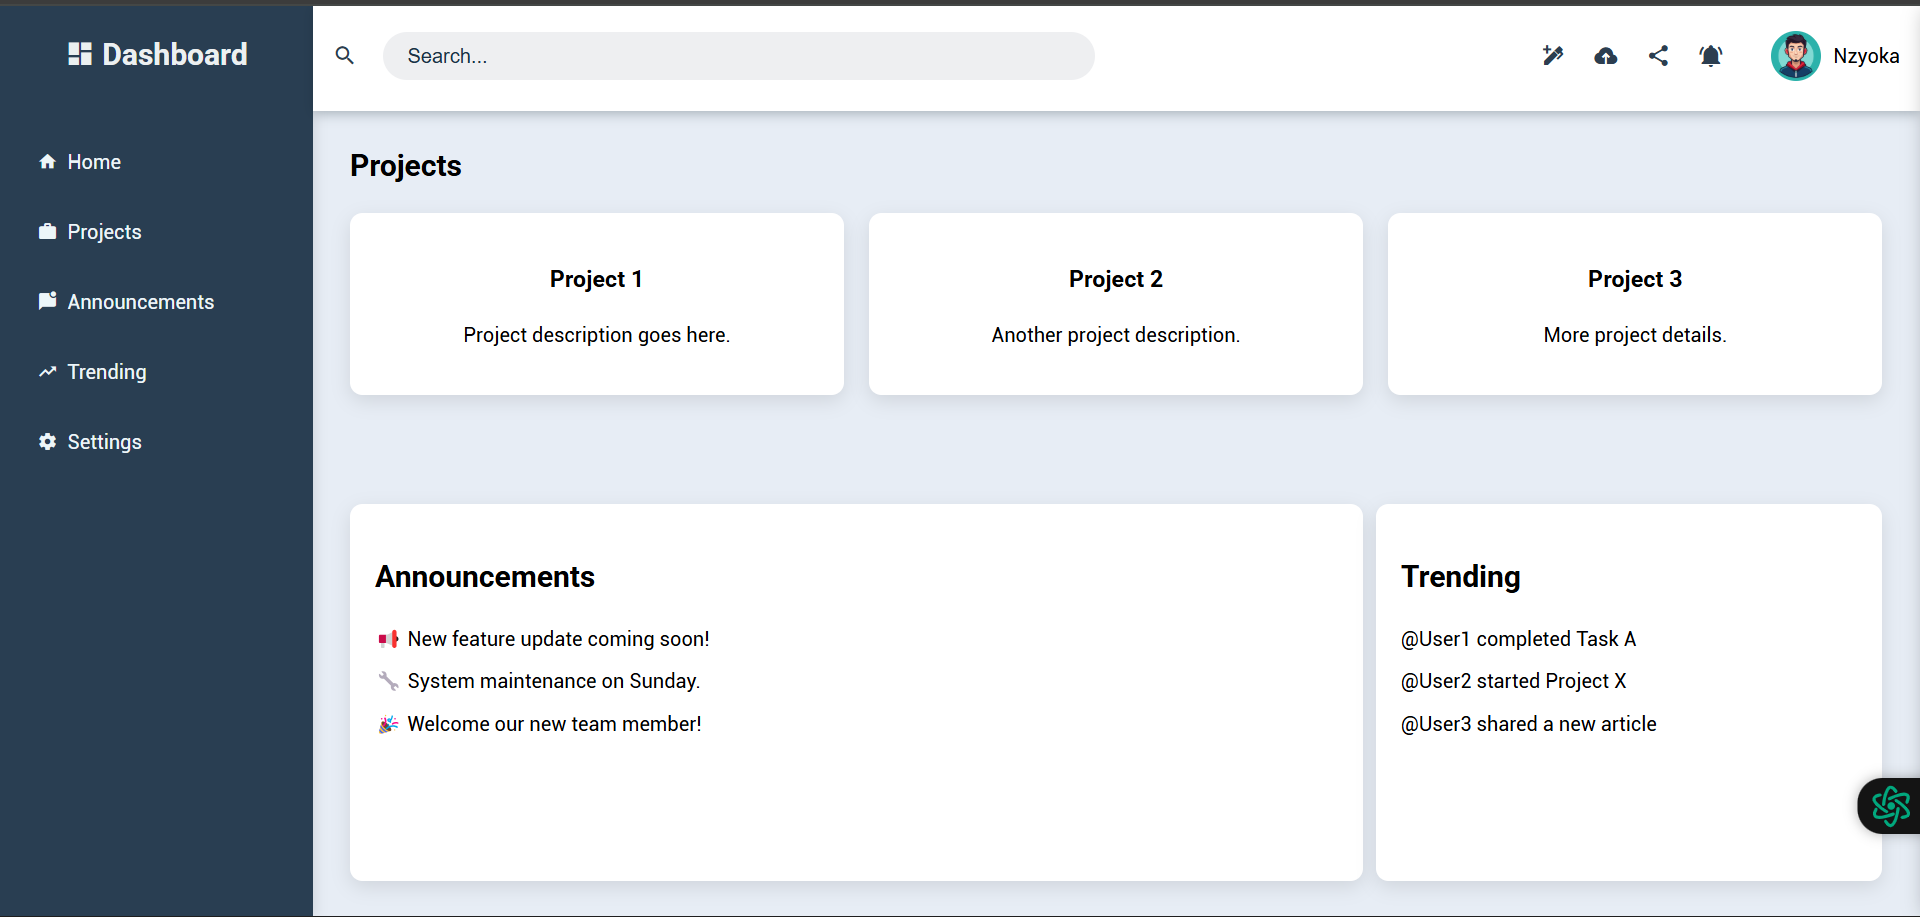
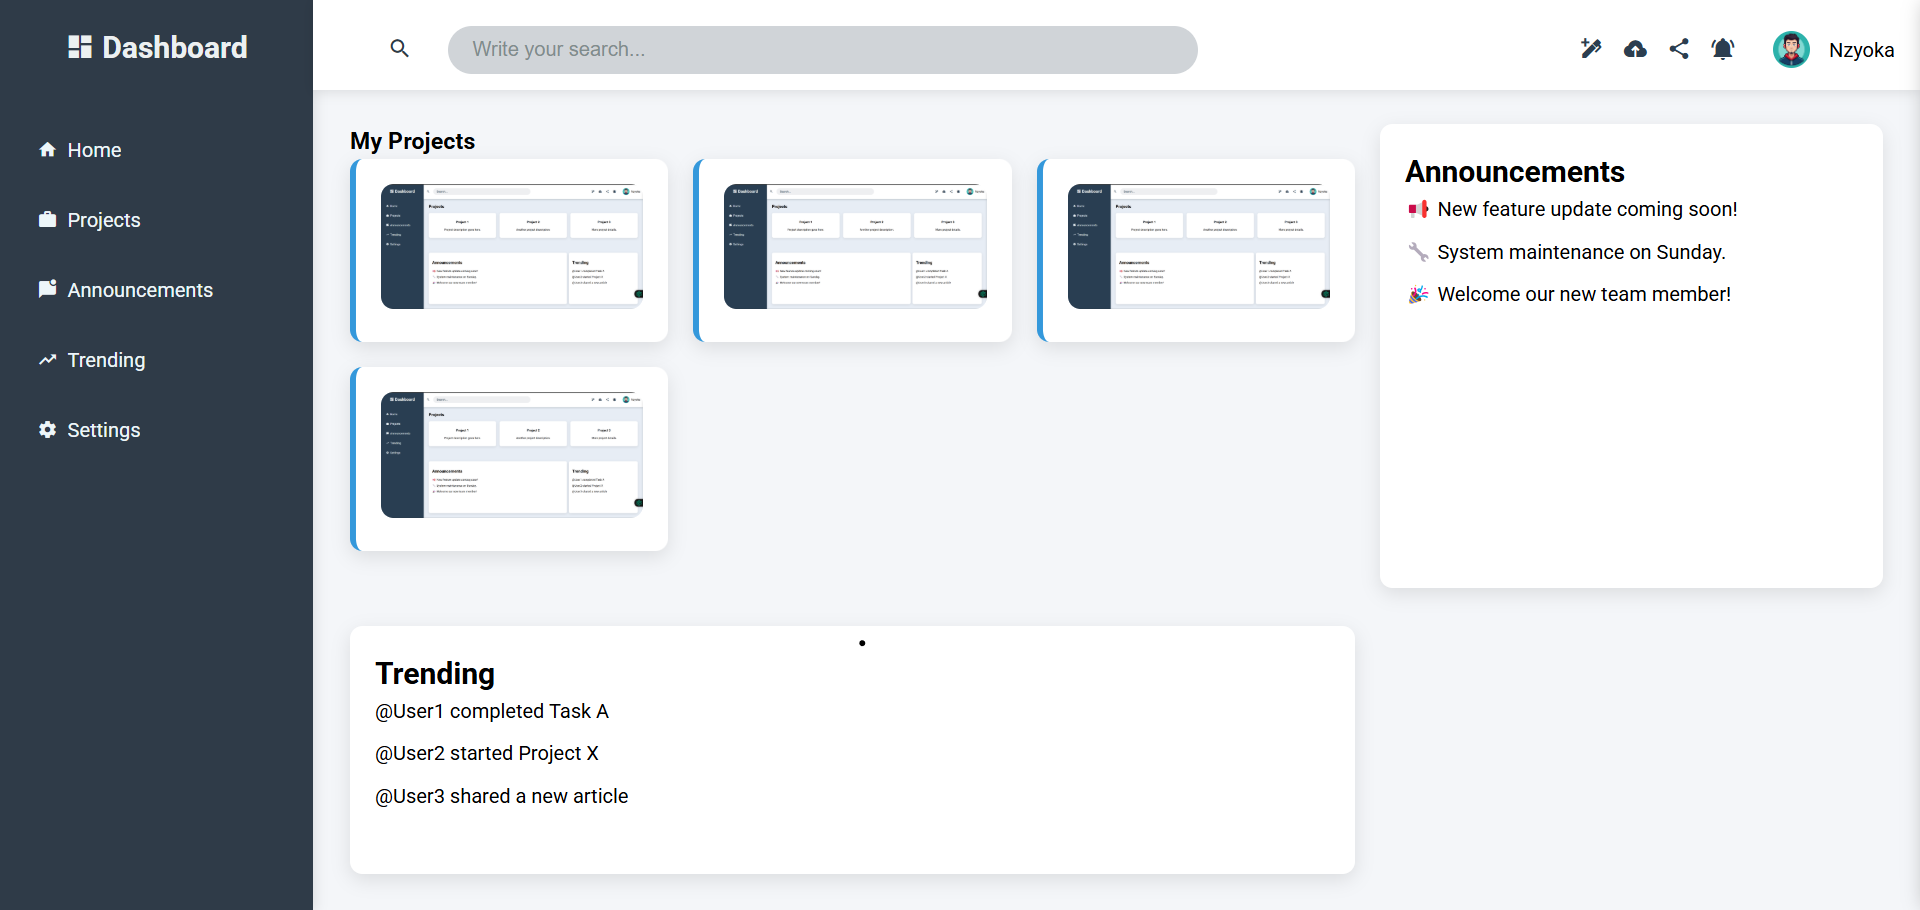
main content updated styles

diff --git a/styles.css b/styles.css
@@ -8,7 +8,10 @@
 /* General Styles */
 body {
     font-family: 'Roboto', sans-serif;
-    background-color: #f4f6f9; /* Light background to match modern dashboards */
+    font-size: 16px;
+    line-height: 1.6;
+    color: #2c3e50;
+    background-color: #f9f9f9; 
 }
 
 /* Main Grid Layout */
@@ -61,11 +64,11 @@ body {
     gap: 8px;
     padding: 10px;
     border-radius: 4px;
-    transition: background 0.3s;
+    transition: background-color 0.3s ease;
 }
 
 .nav ul li a:hover {
-    background: #34495ecf;
+    background-color: #34495ecf;
 }
 
 /* Header */
@@ -76,6 +79,7 @@ body {
     display: flex;
     flex-direction: column;
     padding: 15px 20px;
+    height: 10vh;
 }
 
 /* Top Header - Search Bar and User Info */
@@ -90,15 +94,37 @@ body {
 .search-bar {
     display: flex;
     align-items: center;
-    gap: 10px;
+    gap: 8px;
+    margin-left: 20px;
 }
 
 .search-bar input {
     padding: 10px;
     border-radius: 20px;
-    border: 1px solid #ccc;
-    width: 250px;
+    border: none;
+    background: rgba(44, 62, 80, 0.225);
+    width: 600px;
     font-size: 16px;
+    max-width: 100%;
+}
+
+.search-bar input::placeholder {
+    color: #7f8c8d;
+    padding: 0 10px;
+}
+
+.search-bar input:focus {
+    outline: none;
+}
+
+.search-bar span {
+    background: transparent;
+    color: #2f3b48;
+    border: none;
+    padding: 10px 20px;
+    border-radius: 20px;
+    cursor: pointer;
+    font-size: 20px;
 }
 
 /* User Info */
@@ -110,7 +136,7 @@ body {
 
 .user-info img {
     border-radius: 50%;
-    width: 40px;
+    width: 30px;
 }
 
 .icon-btn {
@@ -136,6 +162,12 @@ body {
 }
 
 /* Projects Section */
+.projects h3{
+    font-size: 20px;
+    color: #2c3e50;
+    margin-bottom: 10px;
+}
+
 .projects {
     grid-column: span 1;
     padding: 10px 0;
@@ -143,7 +175,7 @@ body {
 
 .project-grid {
     display: grid;
-    grid-template-columns: repeat(auto-fit, minmax(250px, 2fr));
+    grid-template-columns: repeat(auto-fit, minmax(220px, 1fr));
     gap: 20px;
 }
 
@@ -159,7 +191,7 @@ body {
     flex-direction: column;
     justify-content: space-between;
     height: 100%;
-    border-left: 5px solid #3498db; /* Left border color */
+    border-left: 8px solid #2f3b48; /* Left border color */
     position: relative;
     overflow: hidden;
 }
@@ -168,7 +200,7 @@ body {
 .project-card:hover {
     cursor: pointer;
     transform: translateY(-2px);
-    box-shadow: 0px 10px 20px rgba(0, 0, 0, 0.2);
+    box-shadow: 0px 10px 20px #2c3e508f;
 }
 
 /* Project Info (Hidden by Default) */
@@ -178,7 +210,7 @@ body {
     left: 50%;
     transform: translate(-50%, -50%);
     color: #fff;
-    background-color: rgba(47, 59, 72, 0.511);
+    background-color: rgba(47, 59, 72, 0.647);
     padding: 20px;
     text-align: center;
     width: 100%;
@@ -217,12 +249,12 @@ body {
 .project-card h3 {
     font-size: 20px;
     font-weight: 600;
-    color: #2c3e50;
+    color: #f7fbff;
 }
 
 .project-card p {
     font-size: 14px;
-    color: #7f8c8d;
+    color: #f6ddca;
     margin: 10px 0;
 }
 
@@ -232,7 +264,7 @@ body {
     padding: 20px;
     border-radius: 10px;
     box-shadow: 0px 5px 15px rgba(0, 0, 0, 0.1);
-    margin-top: 10px; /* Reduced top margin */
+    margin-top: 6px; /* Reduced top margin */
 }
 
 .announcements ul, .trending ul {

diff --git a/index.html b/index.html
@@ -58,7 +58,7 @@
         <div class="top-header">
           <div class="search-bar">
             <span class="mdi mdi-magnify"></span>
-            <input type="text" placeholder="Search..." />
+            <input type="text" placeholder="Write your search..." />
           </div>
           <div class="user-info">
             <button class="btn btn-sm icon-btn">
@@ -95,7 +95,7 @@
         <!-- Project card: 1 -->
         <div class="project-card">
             <div class="project-image">
-                <img src="img/dash.png" alt="Project 1">
+                <img src="img/odin.png" alt="Project 1">
             </div>
             <div class="project-info">
                 <h3>Project 1</h3>
@@ -117,7 +117,7 @@
         <!-- Project card: 3 -->
         <div class="project-card">
             <div class="project-image">
-                <img src="img/dash.png" alt="Project 3">
+                <img src="img/odin.png" alt="Project 3">
             </div>
             <div class="project-info">
                 <h3>Project 3</h3>
@@ -150,15 +150,16 @@
           </ul>
         </section>
 
-        <!-- Trending Section -->
+       <!-- Trending Section -->
         <section class="trending">
-          <h2>Trending</h2>
-          <ul>
-            <li>@User1 completed Task A</li>
-            <li>@User2 started Project X</li>
-            <li>@User3 shared a new article</li>
-          </ul>
+            <h2>Trending</h2>
+            <ul>
+            <li>Moha completed Task A</li>
+            <li>Jude started Project X</li>
+            <li>Sarah shared a new article</li>
+            </ul>
         </section>
+        
       </main>
     </div>
   </body>
